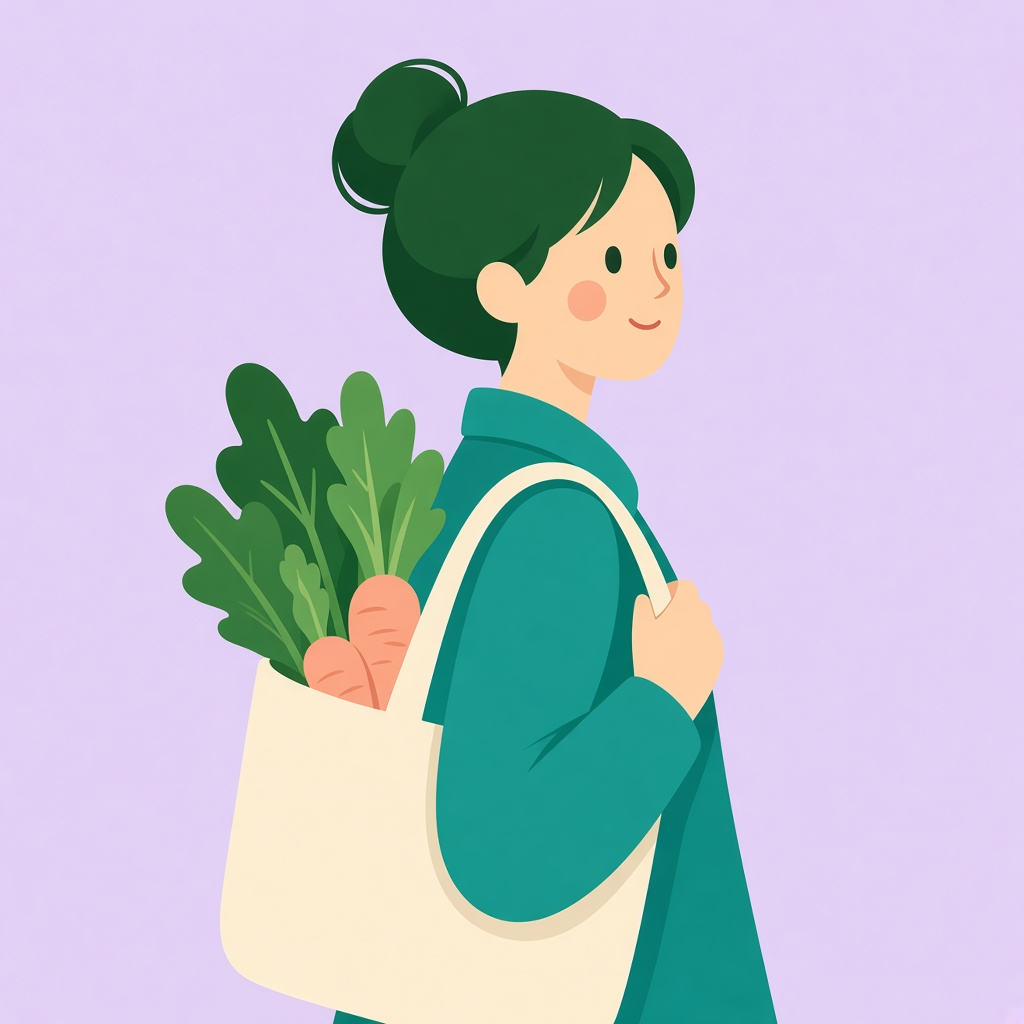
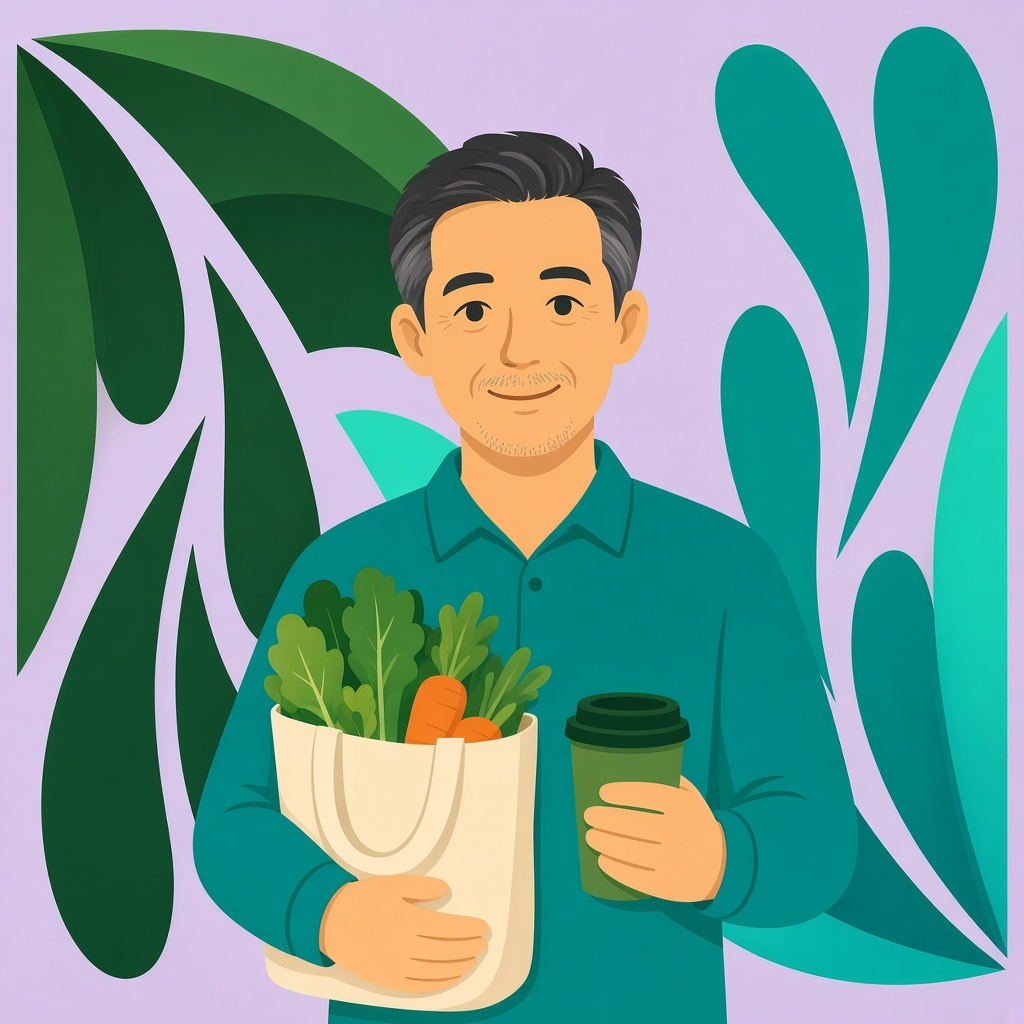
fix(quiz): alternate men and women in the early illustrations
The age cards were three women and one man, and the walk scene repeated a woman. The grid now alternates, and the reflection shows a man.

diff --git a/src/components/steps/reflection.tsx b/src/components/steps/reflection.tsx
@@ -27,7 +27,7 @@ export function ReflectionStep() {
         transition={{ duration: 1.1, ease: [0.22, 1, 0.36, 1] }}
         className="relative h-[11rem] shrink-0 overflow-hidden rounded-[1.7rem] shadow-[0_6px_16px_rgb(23_69_58_/_0.07)]"
       >
-        <Image src="/images/illustrations/reflection-walk.jpg" alt="" fill priority sizes="(max-width: 512px) 100vw, 512px" className="object-cover object-[70%_30%]" />
+        <Image src="/images/illustrations/reflection-walk.jpg" alt="" fill priority sizes="(max-width: 512px) 100vw, 512px" className="object-cover object-center" />
       </motion.div>
       <p className="ph-mask max-w-[22rem] text-[1.7rem] font-extrabold leading-[1.2] tracking-tight text-forest [text-wrap:balance]">
         {reflectionHeadline(data, copy)}
